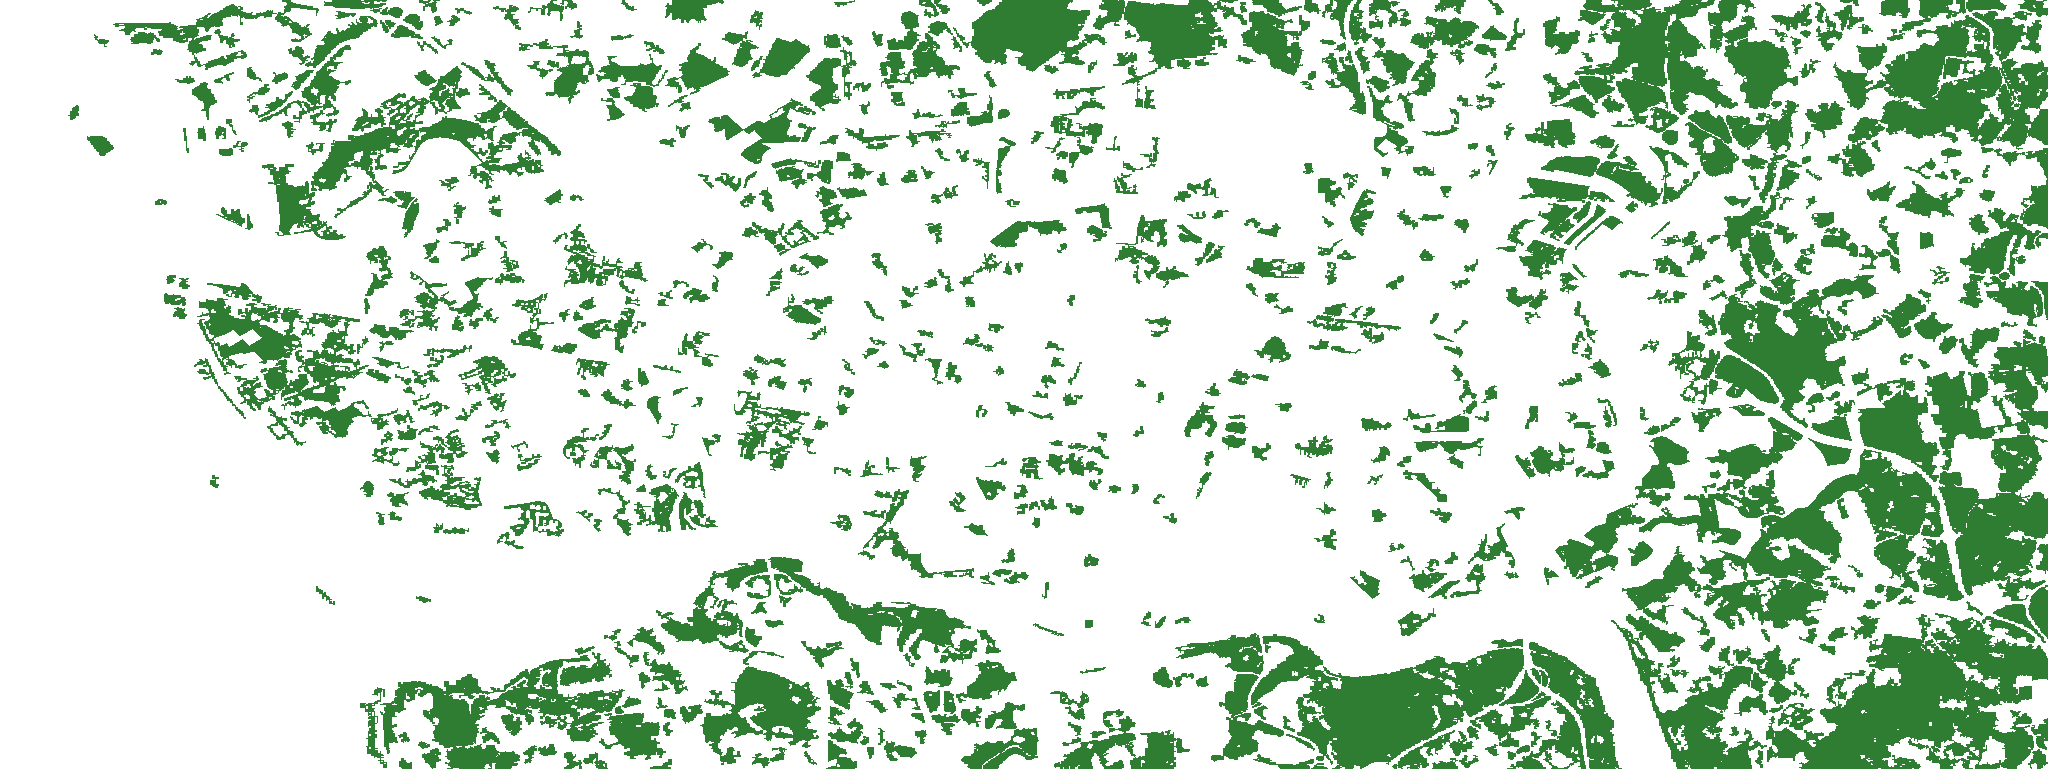
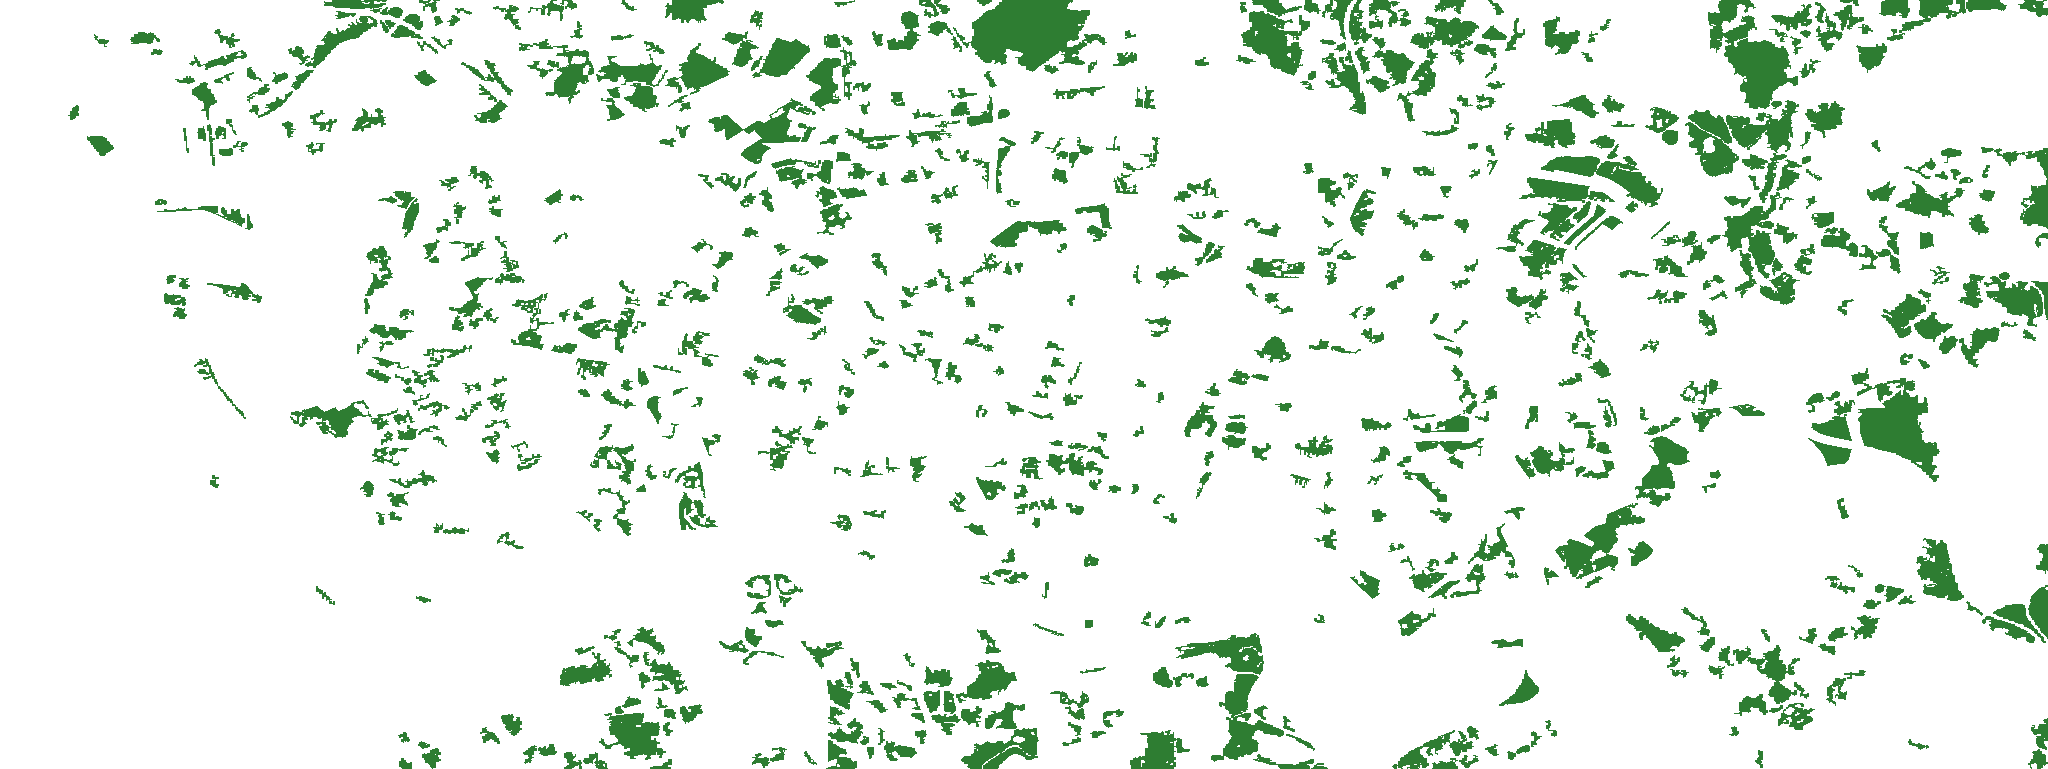
Melhora filtro linearidade com compacidade e periferia a 40000m²
Substitui rácio bounding box por compacidade (4π×área/perímetro²).
Detecta 46 features lineares vs 2 anteriormente. Periferia sobe
para 40000m² mínimo.

diff --git a/interiores_quarteiroes.py b/interiores_quarteiroes.py
@@ -351,8 +351,8 @@ else:
     vci_mask = np.ones((H, W), dtype=bool)
 
 MIN_AREA_CENTRO = 3000       # m2
-MIN_AREA_PERIFERIA = 20000   # m2
-MAX_ELONGATION = 5           # racio comprimento/largura para detectar features lineares
+MIN_AREA_PERIFERIA = 40000   # m2
+MIN_COMPACTNESS = 0.12       # 4*pi*area/perimetro^2 — abaixo disto e linear
 
 def filter_by_vector(filepath):
     """Vectorizar pixels, filtrar por area e forma, guardar PNG limpo."""
@@ -383,15 +383,17 @@ def filter_by_vector(filepath):
             removed_area += 1
             continue
 
-        # Filtro de linearidade: bounding box minimo
-        rows, cols = np.where(component)
-        height_px = rows.max() - rows.min() + 1
-        width_px = cols.max() - cols.min() + 1
-        long_side = max(height_px, width_px)
-        short_side = max(min(height_px, width_px), 1)
-        elongation = long_side / short_side
+        # Filtro de linearidade: compacidade (4*pi*area/perimetro^2)
+        # Perimetro = pixels com pelo menos um vizinho 4-conexo fora do componente
+        eroded = ndimage.binary_erosion(component)
+        perimeter_pixels = component & ~eroded
+        perimeter_len = perimeter_pixels.sum()
+        if perimeter_len > 0:
+            compactness = (4 * math.pi * n_pixels) / (perimeter_len ** 2)
+        else:
+            compactness = 1.0
 
-        if elongation > MAX_ELONGATION:
+        if compactness < MIN_COMPACTNESS:
             arr[component, 3] = 0
             removed_linear += 1
             continue
